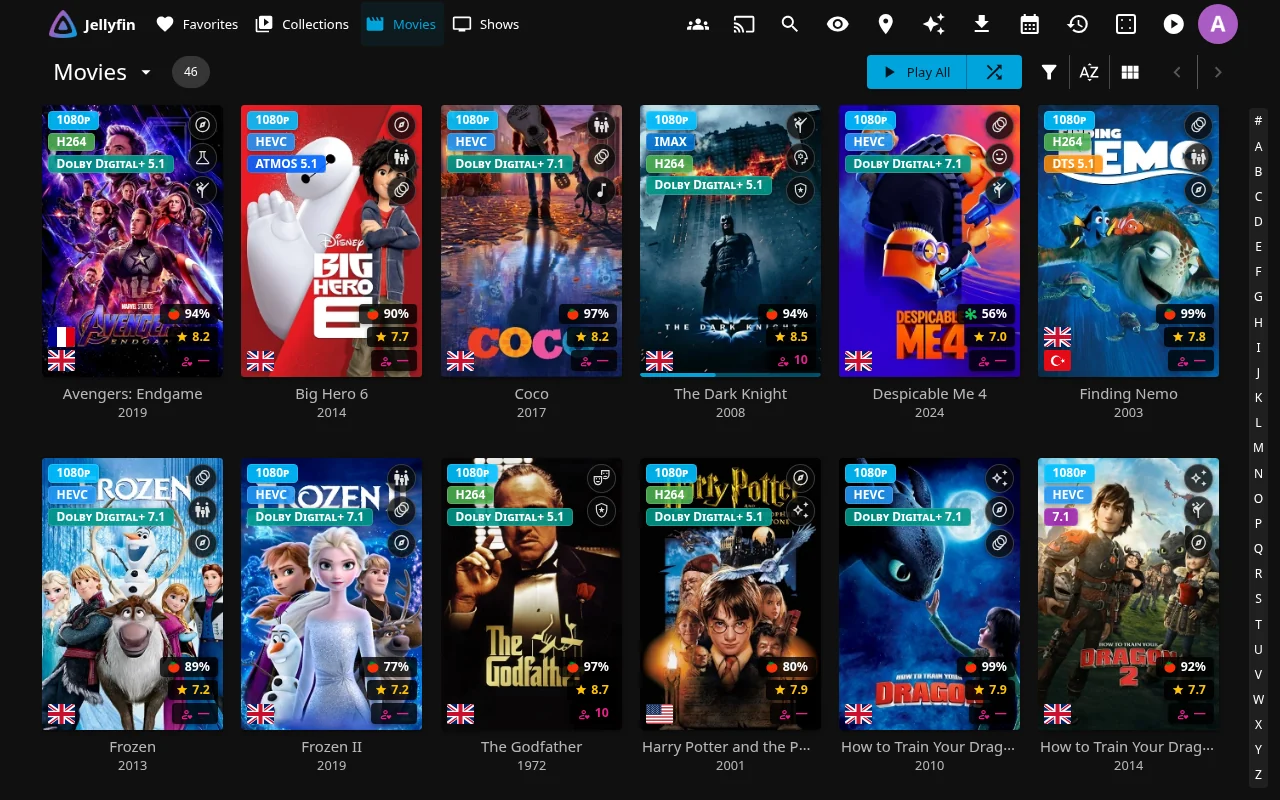
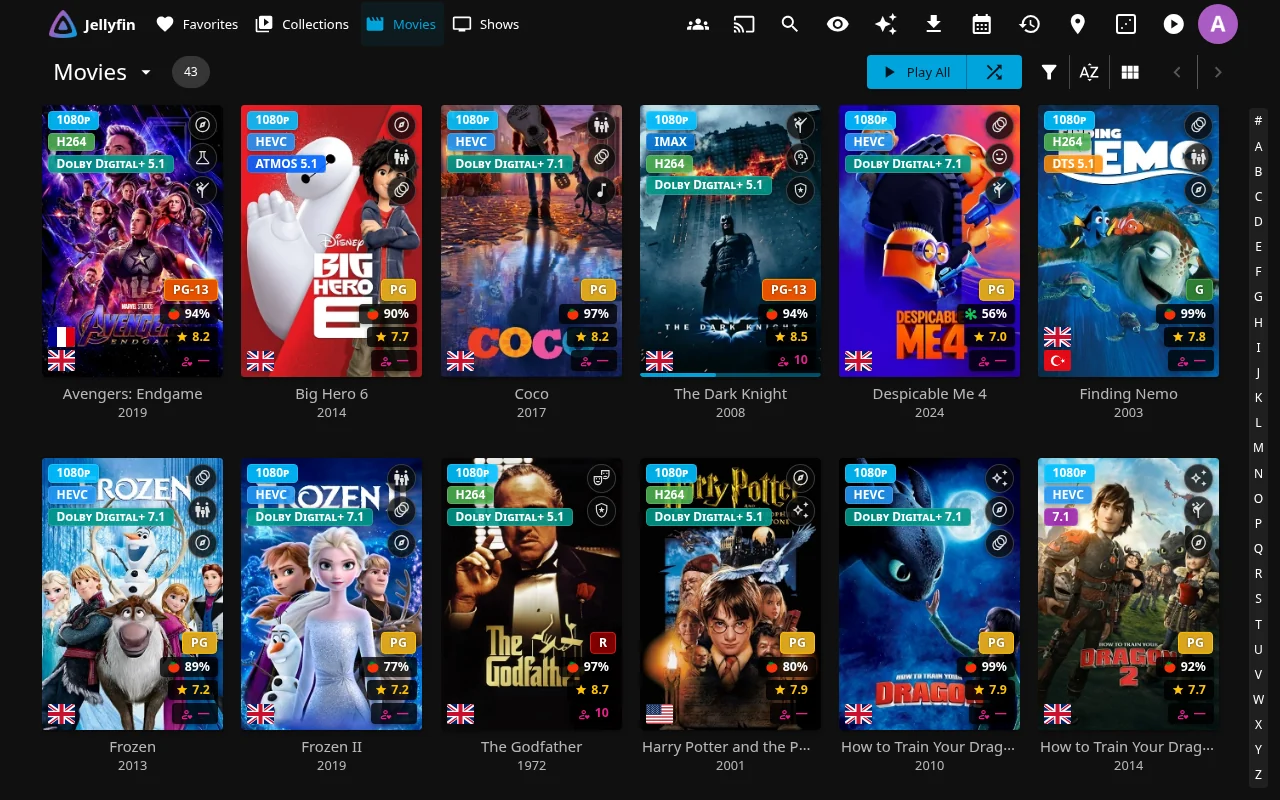
docs(readme): re-record on current main and bring the README up to date
Re-record every animation (and the poster-tag still) on a Jellyfin 12.1
server running current main, so the clips match how the plugin looks and
behaves today, including the new age rating badges.

Add what main has gained since the README was written: age rating tags,
preferred audio language and partial-dub flags, subtitle outline and
shadow effects, Random scoped to a playlist or collection, Spoiler Guard
auto-enable on library add, Seerr studio/network pages, year search,
library exclusion, manual TVDB matching and advanced request options,
Shoko on the Calendar, and maintenance countdowns, reminders and a daily
window.

Fix claims that were wrong or out of date: File Transformation is no
longer needed by the plugin itself (only by Plugin Pages and Custom Tabs),
Elsewhere shows subscription streaming only, Spoiler Guard swaps artwork
by default rather than blurring, Next Up removals don't return on
playback, the Requests page is per user for non-admins, the stream
counter counts streams, R opens rather than plays, and the login picture
screenshot showed stock Jellyfin, so it is removed. Spell out what native
apps get, note that many features start off, and add a privacy answer.

diff --git a/README.md b/README.md
@@ -31,11 +31,11 @@
 
 ## 🪼 What is Jellyfin Enhanced?
 
-[Jellyfin](https://jellyfin.org) is a free media server you run yourself, like your own private Netflix. **Jellyfin Enhanced** is a free plugin for that server. It adds dozens of features to the screens you already use in the Jellyfin web app, and in the official Android, iOS and desktop apps (they use the same web interface).
+[Jellyfin](https://jellyfin.org) is a free media server you run yourself, like your own private Netflix. **Jellyfin Enhanced** is a free plugin for that server. It adds dozens of features to the screens you already use in the Jellyfin web app, and in the official Android and iOS apps and Jellyfin Desktop (they use the same web interface).
 
 - **Install it once, on the server.** Everyone who uses your server gets the new features. There is nothing to install on phones, TVs or computers.
 - **Every person picks what they want.** Press <kbd>?</kbd> anywhere in Jellyfin to open the Enhanced panel and switch features on or off for yourself.
-- **Everything is optional.** Out of the box you get the features that need no setup. Connecting [Seerr](https://github.com/seerr-team/seerr), Sonarr, Radarr, TMDB or MDBList adds even more.
+- **Everything is optional.** Whoever runs the server chooses which features are available and how they're set up by default; many start switched off. Connecting [Seerr](https://github.com/seerr-team/seerr), Sonarr, Radarr, TMDB or MDBList adds even more.
 
 **🍿 For viewers:** [Poster tags](#%EF%B8%8F-see-quality-at-a-glance) · [Richer movie pages](#-richer-movie-and-show-pages) · [A better player](#%EF%B8%8F-a-better-player) · [Shortcuts](#%EF%B8%8F-the-enhanced-panel-and-shortcuts) · [Random](#-cant-decide)<br>
 **👨👩👧 For households:** [Spoiler Guard](#-watch-without-spoilers) · [Hide things](#-keep-your-home-screen-tidy) · [Reviews and Activity](#-share-it-with-your-household) · [Phones](#-on-your-phone)<br>
@@ -50,9 +50,6 @@
    ```
 3. Open the **Catalog** tab, find **Jellyfin Enhanced**, and click **Install**.
 4. **Restart** Jellyfin, refresh your browser (<kbd>Ctrl</kbd>+<kbd>F5</kbd>), and press <kbd>?</kbd>. If the Enhanced panel opens, you're done. 🎉
-
-> [!TIP]
-> Also install the [File Transformation](https://github.com/IAmParadox27/jellyfin-plugin-file-transformation) plugin from the same Catalog. It prevents file-permission problems on Docker, Windows and Linux.
 
 > [!IMPORTANT]
 > Jellyfin Enhanced needs **Jellyfin 10.11 or newer** (12.x and its release candidates included). The same repository URL serves every version, and Jellyfin installs the build that matches your server. Something not working? See the [installation guide](https://n00bcodr.github.io/Jellyfin-Enhanced/installation/installation/) and [troubleshooting](https://n00bcodr.github.io/Jellyfin-Enhanced/installation/troubleshooting/).
@@ -69,10 +66,13 @@ Search Jellyfin as usual. If what you want isn't on the server yet, it shows up 
 
 - **Request movies and shows** from search results, detail pages and discovery pages, including **4K** and **specific seasons**.
 - **Recommendations and "Similar"** rows on every movie and show page, with request buttons.
-- **Browse and discover** by genre, network, studio, actor, collection or tag, plus a **Recommendations** page with trending and popular titles.
+- **Browse and discover** by genre, network, studio, actor, collection or tag, plus a **Recommendations** page with trending and popular titles. Studio and network pages show their movies and series side by side, with an All / Movies / Series switch.
+- **Smarter search:** type `Dune (2021)` to match a specific year, and optionally hide Seerr results you already have in Jellyfin.
 - **Automatic requests:** when you're close to the end of a season, the next season is requested for you. The same works for the next movie in a collection.
-- **Watchlist sync** between Seerr and Jellyfin, in both directions (uses the [KefinTweaks](https://github.com/ranaldsgift/KefinTweaks) watchlist).
+- **More request options:** pick the server, quality profile and folder when requesting, see your request quota, and use **Request More** on a show to add missing seasons.
+- **Watchlist sync** between Seerr and Jellyfin, in both directions ([KefinTweaks](https://github.com/ranaldsgift/KefinTweaks) shows the Jellyfin side as a watchlist).
 - **Report a problem** (video, audio, subtitles or other) straight to Seerr from the item page.
+- **Fix shows Seerr can't match:** for a series with no TVDB match (common with anime), pick the right one, or type its TVDB ID, before you request it.
 - **Parental controls are respected.** Results follow each user's rating limit and blocked tags.
 
 <p align="center"><b>Recommendations page</b><br><img src="docs/images/readme/recommendations.webp" alt="Seerr Recommendations page with Trending and Popular rows" width="100%"></p>
@@ -83,14 +83,14 @@ Search Jellyfin as usual. If what you want isn't on the server yet, it shows up 
 
 ### 🫣 Watch without spoilers
 
-Turn on **Spoiler Guard** for a show, movie or collection. Until you've watched an episode, its thumbnail is blurred, and its title, plot, rating, chapter names and guest stars are hidden. Everything you've already watched looks normal.
+Turn on **Spoiler Guard** for a show, movie or collection. Until you've watched an episode, its thumbnail is swapped for the show's artwork (or blurred, if your admin prefers), and its title, plot, rating, chapter names and guest stars are hidden. Everything you've already watched looks normal.
 
 <p align="center"><img src="docs/images/readme/spoiler-guard-compare.webp" alt="The same season with Spoiler Guard on (later episodes blurred and renamed 'Season 1, Episode 7') and off" width="100%"></p>
 
 - It runs **on the server**, so it protects **every** Jellyfin app, including TV apps, Swiftfin, Findroid and Streamyfin.
-- It's **per person**: turning it on for yourself doesn't change anything for anyone else.
+- It's **per person**: turning it on for yourself doesn't change anything for anyone else. You can also choose which details stay visible for you, such as ratings or the cast.
 - It also covers **trickplay previews** when you scrub the timeline, the **chapter list**, **search results** and **reviews**.
-- Admins can turn it on automatically when someone starts a new show or requests one.
+- Admins can turn it on automatically when someone starts a new show, requests one, or when a new title lands in the library, for shows, movies or only certain libraries.
 
 <details>
 <summary>▶ See it in action</summary>
@@ -103,14 +103,15 @@ Turn on **Spoiler Guard** for a show, movie or collection. Until you've watched 
 
 Every poster gets small badges, so you can tell at a glance what you're about to watch.
 
-<p align="center"><img src="docs/images/readme/library-tags.webp" alt="Movie library with quality, genre, language and rating badges on every poster" width="100%"></p>
+<p align="center"><img src="docs/images/readme/library-tags.webp" alt="Movie library with quality, genre, language, age rating and score badges on every poster" width="100%"></p>
 
 | Badge | What it shows |
 |---|---|
-| **Quality** (top left) | Resolution (8K, 4K, 1080p…), HDR, Dolby Vision, HDR10+, codec, and audio such as Atmos, DTS:X, TrueHD and 7.1 |
+| **Quality** (top left) | Resolution (8K, 4K, 1080p…), HDR, Dolby Vision, HDR10+, IMAX, 3D, codec, and audio such as Atmos, DTS:X, TrueHD and 7.1. It can describe the best audio in *your* language rather than the best in the file |
 | **Genre** (top right) | Icons for up to three genres, which expand into their names when you hover |
-| **Language** (bottom left) | A flag for each audio language |
-| **Ratings** (bottom right) | TMDB and Rotten Tomatoes scores, plus (optionally) the average rating from people on your server |
+| **Language** (bottom left) | A flag for each audio language. On shows, a dimmed flag means that dub doesn't cover every episode |
+| **Age rating** (bottom right) | The parental rating (PG-13, TV-MA, FSK 12, BBFC 15…), colour-coded by rating board |
+| **Ratings** (bottom right) | The community and critic scores from your metadata (usually TMDB and Rotten Tomatoes), plus (optionally) the average rating from people on your server |
 | **People** (cast photos) | Each actor's age now and at release, and their birthplace |
 
 <p align="center"><img src="docs/images/readme/cast-tags.webp" alt="Cast row with each actor's age, age at release and birthplace" width="100%"></p>
@@ -123,8 +124,8 @@ Every poster gets small badges, so you can tell at a glance what you're about to
 
 <p align="center"><img src="docs/images/readme/elsewhere-reviews.webp" alt="Streaming availability and user reviews on a movie page" width="100%"></p>
 
-- **Ratings** from TMDB and Rotten Tomatoes, plus IMDb, Letterboxd, Metacritic, Trakt and more through [MDBList](https://mdblist.com)
-- **Elsewhere:** where the title is streaming, for rent or for sale, in any country
+- **Ratings** from TMDB and Rotten Tomatoes, plus IMDb, Letterboxd, Metacritic, Trakt and more through [MDBList](https://mdblist.com). MDBList ratings can also be saved into Jellyfin itself, so every app shows them
+- **Elsewhere:** which streaming services carry the title, in your country or any other
 - **Reviews:** TMDB reviews, and **reviews and star ratings written by people on your server**
 - **Awards:** Oscars, Golden Globes, BAFTAs, Emmys and more, for movies, shows and people
 - **Extra details** such as release dates (cinema, digital and physical for movies, air dates for shows), file size, watch progress and audio languages
@@ -132,19 +133,19 @@ Every poster gets small badges, so you can tell at a glance what you're about to
 
 <p align="center"><img src="docs/images/readme/awards.webp" alt="Expanded awards panel listing wins and nominations" width="75%"></p>
 
-<sub>Streaming availability and TMDB reviews need a free TMDB API key, and extra ratings need a free MDBList key. · [Elsewhere docs →](https://n00bcodr.github.io/Jellyfin-Enhanced/elsewhere/elsewhere-features/)</sub>
+<sub>Streaming availability, TMDB reviews and release dates need a free TMDB API key, and extra ratings need a free MDBList key. · [Elsewhere docs →](https://n00bcodr.github.io/Jellyfin-Enhanced/elsewhere/elsewhere-features/)</sub>
 
 ### ⏯ A better player
 
 <p align="center"><img src="docs/images/readme/pause-screen.webp" alt="Custom pause screen with logo, plot, rating and progress" width="100%"></p>
 
 - A **pause screen** with the title, plot, rating and how far you are through it
-- **Bookmarks:** press <kbd>B</kbd> to save a moment. It appears as a marker on the timeline, and every bookmark is listed on its own page.
+- **Bookmarks:** press <kbd>B</kbd> to save a moment. It appears as a marker on the timeline, and every bookmark is listed on its own page, where you can label, export and import them.
 - **Automatic intro and outro skipping**, using the intro data Jellyfin already has (for example from [Intro Skipper](https://github.com/intro-skipper/intro-skipper))
 - **Auto-pause** when you switch browser tabs, **auto-resume** when you come back, and optional picture-in-picture
-- **Custom subtitles:** font, size, color, background and position, with a live preview
+- **Custom subtitles:** font, size, color, background, position and an outline or drop shadow, with a live preview
 - **Press and hold the video for 2× speed** (mouse or touch)
-- **Ratings in the player** while the controls are showing
+- **Ratings in the player** while the controls are showing, and optionally a brief age rating, content advisory and genre card when playback starts
 
 <p align="center"><b>Bookmarks on the timeline</b><br><img src="docs/images/readme/player-bookmarks.webp" alt="Player timeline with bookmark markers" width="100%"></p>
 
@@ -167,10 +168,10 @@ Press <kbd>?</kbd> anywhere to open your personal settings panel. It's also wher
 | <kbd>Shift</kbd>+<kbd>H</kbd> | Home | <kbd>O</kbd> | Skip intro or outro |
 | <kbd>D</kbd> | Dashboard | <kbd>S</kbd> / <kbd>C</kbd> | Subtitle menu / next subtitle track |
 | <kbd>Q</kbd> | Quick Connect | <kbd>V</kbd> | Next audio track |
-| <kbd>R</kbd> | Play something random | <kbd>+</kbd> / <kbd>-</kbd> / <kbd>R</kbd> | Faster / slower / normal speed |
+| <kbd>R</kbd> | Open something random | <kbd>+</kbd> / <kbd>-</kbd> / <kbd>R</kbd> | Faster / slower / normal speed |
 | <kbd>?</kbd> | Open the Enhanced panel | <kbd>A</kbd> | Change aspect ratio |
 | | | <kbd>I</kbd> | Playback info |
-| | | <kbd>P</kbd> | Episode preview |
+| | | <kbd>P</kbd> | Episode preview (with the [InPlayerEpisodePreview](https://github.com/Namo2/InPlayerEpisodePreview) plugin) |
 | | | <kbd>,</kbd> / <kbd>.</kbd> | Back or forward one frame |
 | | | <kbd>Z</kbd> | Jump back to where you were |
 | | | <kbd>0</kbd>–<kbd>9</kbd> | Jump to 0–90% of the video |
@@ -183,7 +184,7 @@ Press <kbd>?</kbd> anywhere to open your personal settings panel. It's also wher
 
 <p align="center"><b>Hide a title everywhere</b><br><img src="docs/images/readme/hide-content.webp" alt="Hiding a movie, then finding it on the Hidden Content page" width="100%"></p>
 
-- **Remove** things from **Continue Watching** or **Next Up** without losing your place. Start watching again and the title comes back by itself.
+- **Remove** things from **Continue Watching** or **Next Up** without losing your place, one at a time or several at once. Start watching again and it comes back to Continue Watching by itself.
 - **Hide** anything you never want to see, from the library, search, recommendations, the calendar and more.
 - Your hidden list is **saved on the server and private to you** (admins can manage it), so it follows you to every device. Manage it, and unhide things, on the **Hidden Content** page.
 
@@ -191,39 +192,37 @@ Press <kbd>?</kbd> anywhere to open your personal settings panel. It's also wher
 
 ### 📅 See what's coming
 
-A **Calendar** shows upcoming episodes and movies from Sonarr and Radarr, in day, week, month or agenda view. You can filter by cinema, digital or physical release, see what's already available, and optionally highlight shows you've favorited or watched.
+A **Calendar** shows upcoming episodes and movies from Sonarr and Radarr (several of each, if you have them) and anime from Shoko, in day, week, month or agenda view. You can filter by cinema, digital or physical release, see what's already available, and optionally highlight shows you've favorited or watched.
 
 <p align="center"><img src="docs/images/readme/calendar.webp" alt="Month calendar of upcoming episodes and movie releases" width="100%"></p>
 
-The **Requests** page shows every Seerr request and what's downloading right now, with progress bars, so nobody has to ask "is it ready yet?"
+The **Requests** page shows Seerr requests and what's downloading right now, with progress bars, so nobody has to ask "is it ready yet?" It also lists reported issues and recent downloads. Admins see everyone's; other people see their own.
 
-<sub>Needs Sonarr and/or Radarr. · [*arr docs →](https://n00bcodr.github.io/Jellyfin-Enhanced/arr/arr-features/)</sub>
+<sub>The Calendar needs Sonarr, Radarr or Shoko. The Requests page needs Seerr, plus Sonarr or Radarr for download progress. · [*arr docs →](https://n00bcodr.github.io/Jellyfin-Enhanced/arr/arr-features/)</sub>
 
 ### 👥 Share it with your household
 
 <p align="center"><img src="docs/images/readme/activity.webp" alt="Activity page showing who is watching now and recent watch history" width="100%"></p>
 
-- **Activity:** see what everyone is watching right now, and what they recently watched, favorited and reviewed. People only see activity for titles they have access to.
+- **Activity:** see what everyone is watching right now, and what they recently watched, favorited and reviewed. History only includes titles each person has access to.
 - **Reviews and ratings:** anyone can rate a movie, show, season or episode and write a review. The average appears on detail pages, and optionally on posters.
-- **Login screen avatars:** everyone's profile picture on the sign-in screen.
-
-<p align="center"><img src="docs/images/readme/login-avatars.webp" alt="Login screen with user avatars" width="70%"></p>
+- **Login picture:** when someone picks their name to sign in, their profile picture appears above the password box.
 
 ### 📡 See who's watching right now
 
-A live counter in the header shows how many people are watching. Click it for everyone's poster, progress and device, and whether each stream is playing directly or being transcoded (with codec and bitrate). Admins can also send a message to everyone who's connected. Only admins see the counter unless you choose to show it to everyone.
+A live counter in the header shows how many streams are playing. Click it for everyone's poster, progress and device, and whether each stream is playing directly or being transcoded (with codec and bitrate). Admins can also send a message to everyone who's connected. Only admins see the counter unless you choose to show it to everyone.
 
 <p align="center"><img src="docs/images/readme/active-streams.webp" alt="Opening the Active Streams panel showing three live sessions" width="80%"></p>
 
 ### 🎲 Can't decide?
 
-The **Random** button (or <kbd>R</kbd>) picks something from your library. You can limit it to movies, shows or things you haven't watched yet.
+The **Random** button (or <kbd>R</kbd>) picks something from your library. You can limit it to movies, shows or things you haven't watched yet, or have it pick from the playlist or collection you're looking at (or one you choose).
 
 <p align="center"><img src="docs/images/readme/random.webp" alt="Clicking the random button twice opens two random titles" width="100%"></p>
 
 ### 📱 On your phone
 
-Everything works in the official Jellyfin apps for Android and iOS, and in Jellyfin 12's layout on any phone browser. The header adapts to small screens.
+It works in the official Jellyfin apps for Android and iOS, and in Jellyfin 12's layout on any phone browser. The header adapts to small screens.
 
 <p align="center"><img src="docs/images/readme/mobile.webp" alt="Three phone screenshots in Jellyfin 12: a movie page with ratings, streaming availability with awards, and a season protected by Spoiler Guard" width="100%"></p>
 
@@ -235,13 +234,13 @@ Everything is configured from **Dashboard → Plugins → Jellyfin Enhanced**, w
 
 - **Set defaults** for everyone, or overwrite everyone's personal settings in one click
 - **Import Jellyfin users into Seerr**, and **audit** who is allowed to request what
-- **Sonarr, Radarr and Bazarr links**, and \*arr tags shown on items
+- **Sonarr, Radarr and Bazarr links**, and \*arr tags shown on items or copied into Jellyfin's own tags
 - **Check which parts are working** with built-in connection tests
-- **Maintenance mode:** a banner on the login page, and optionally lock out everyone except admins while you work
-- **Your own branding:** upload a logo, banners, favicon and loading screen
-- **Themes:** pick a color theme (or a random one each day), plus colored activity and plugin icons
+- **Maintenance mode:** a banner on the login page with a live countdown, reminders when people start playing something, and optionally lock out everyone except admins while you work. It can also switch itself on every day for a set window, such as overnight while library scans run
+- **Your own branding:** upload a logo, login banners, favicon and app icon, and set your own loading screen
+- **Themes:** pick a color theme for [Jellyfish](https://github.com/n00bcodr/Jellyfish/) (or a random one each day), plus colored activity and plugin icons
 - **Documented CSS hooks** to restyle any part of the plugin
-- **Translated into 20+ languages** by the community
+- **Translated into 30+ languages** by the community
 
 <p align="center"><img src="docs/images/readme/maintenance-mode.webp" alt="Maintenance banner on the Jellyfin login page" width="100%"></p>
 
@@ -256,26 +255,26 @@ Everything is configured from **Dashboard → Plugins → Jellyfin Enhanced**, w
 | Jellyfin web, in any browser | ✅ Everything |
 | Official Android and iOS apps | ✅ Everything (they use the web interface) |
 | Jellyfin Desktop v3.0.0+ (currently unreleased) | ✅ Everything |
-| Android TV, Roku, Swiftfin, Findroid, Streamyfin and other apps | ⚠ Only the features that run on the server: **Spoiler Guard**, **hidden content** (including Continue Watching / Next Up removals), **automatic Seerr requests**, **maintenance mode** and admin messages |
+| Android TV, Roku, Swiftfin, Findroid, Streamyfin and other apps | ⚠ Only the features that run on the server: **Spoiler Guard**, **hidden content** (including Continue Watching / Next Up removals), **automatic Seerr requests**, watchlist sync, MDBList ratings and \*arr tags saved into Jellyfin, and **maintenance mode** lockouts. Admin messages and maintenance reminders appear if the app shows server messages. Turning these on for a title is done from the web interface or the official phone apps |
 
 ## 🧩 Works great with
 
 | Plugin or app | Why |
 |---|---|
-| [File Transformation](https://github.com/IAmParadox27/jellyfin-plugin-file-transformation) | Recommended for every install. Prevents file-permission errors. |
 | [Seerr](https://github.com/seerr-team/seerr) | Powers requests, discovery, recommendations and watchlist sync. |
-| Sonarr / Radarr / Bazarr | Power the Calendar, the Requests page's download progress, and admin links. |
+| Sonarr / Radarr | Power the Calendar, the Requests page's download progress, and admin links. |
+| Bazarr / Shoko | Bazarr adds subtitle links for admins; Shoko adds anime to the Calendar. |
 | [Intro Skipper](https://github.com/intro-skipper/intro-skipper) | Finds the intros and outros that auto-skip jumps over. |
-| [Plugin Pages](https://github.com/IAmParadox27/jellyfin-plugin-pages) / [Custom Tabs](https://github.com/IAmParadox27/jellyfin-plugin-custom-tabs) | Optional. Put the Calendar, Requests, Activity and other pages in the sidebar or as home tabs. Built-in home tabs work without them. |
-| [KefinTweaks](https://github.com/ranaldsgift/KefinTweaks) | Provides the watchlist that watchlist sync uses. |
-| [Jellyfish](https://github.com/n00bcodr/Jellyfish/) | A Jellyfin theme by the same author, which the theme selector builds on. |
+| [Plugin Pages](https://github.com/IAmParadox27/jellyfin-plugin-pages) / [Custom Tabs](https://github.com/IAmParadox27/jellyfin-plugin-custom-tabs) | Optional. Put the Calendar, Requests, Activity and other pages in the sidebar (the profile menu on Jellyfin 12) or as home tabs. Both need [File Transformation](https://github.com/IAmParadox27/jellyfin-plugin-file-transformation). Jellyfin Enhanced's built-in home tabs work without them. |
+| [KefinTweaks](https://github.com/ranaldsgift/KefinTweaks) | Shows the Jellyfin watchlist that watchlist sync keeps up to date. |
+| [Jellyfish](https://github.com/n00bcodr/Jellyfish/) | A Jellyfin theme by the same author. The theme selector picks its colors. |
 
 ## ❓ Common questions
 
 <details>
 <summary><b>Does it work on my TV?</b></summary>
 
-Partly. Most features live in Jellyfin's web interface, so you get all of them in browsers, the official Android and iOS apps, and Jellyfin Desktop v3.0.0+. Native TV apps and other apps like Swiftfin, Findroid and Streamyfin don't use that interface. They still get the features that run on the server: Spoiler Guard, hidden content (including Continue Watching / Next Up removals), automatic Seerr requests, maintenance mode and admin messages.
+Partly. Most features live in Jellyfin's web interface, so you get all of them in browsers, the official Android and iOS apps, and Jellyfin Desktop v3.0.0+. Native TV apps and other apps like Swiftfin, Findroid and Streamyfin don't use that interface. They still get the features that run on the server: Spoiler Guard, hidden content (including Continue Watching / Next Up removals), automatic Seerr requests, watchlist sync, MDBList ratings and \*arr tags saved into Jellyfin, and maintenance-mode lockouts. Admin messages and maintenance reminders show up if the app displays server messages. You switch these on from the web interface or a phone, and your TV follows.
 
 </details>
 
@@ -294,6 +293,13 @@ No. It doesn't touch your media files. Removing something from Continue Watching
 </details>
 
 <details>
+<summary><b>Does it send my data anywhere?</b></summary>
+
+It talks to the services you connect, such as Seerr, Sonarr, Radarr, TMDB and MDBList, and posters for titles you don't have yet load from TMDB. The plugin's own icons and fonts come from your server, not third-party sites. There is an anonymous usage report that helps guide development, but it's **off by default**, an admin has to turn it on, and the settings page shows exactly what would be sent. [More about it →](https://n00bcodr.github.io/Jellyfin-Enhanced/advanced/community-analytics/)
+
+</details>
+
+<details>
 <summary><b>Is it free?</b></summary>
 
 Yes. It's open source under [GPL-3.0](LICENSE). If you'd like to say thanks, there's [Ko-fi](https://ko-fi.com/n00bcodr) and [Buy Me a Coffee](https://www.buymeacoffee.com/n00bcodr).
@@ -303,7 +309,7 @@ Yes. It's open source under [GPL-3.0](LICENSE). If you'd like to say thanks, the
 <details>
 <summary><b>Is it in my language?</b></summary>
 
-Probably. It's translated into more than 20 languages and follows the language set in your Jellyfin profile. Missing yours? [Help translate on Weblate](https://hosted.weblate.org/engage/jellyfinenhanced/). No coding needed.
+Probably. It's translated into more than 30 languages and follows the language set in your Jellyfin profile. Missing yours? [Help translate on Weblate](https://hosted.weblate.org/engage/jellyfinenhanced/). No coding needed.
 
 </details>
 
